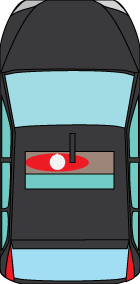
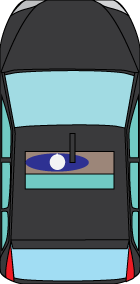
Added all new car textures

Changed region(s): [[0.1714, 0.5352, 0.6571, 0.6197]]

diff --git a/core/src/main/java/com/icyvenom/needforghetto/view/WorldRenderer.java b/core/src/main/java/com/icyvenom/needforghetto/view/WorldRenderer.java
@@ -144,7 +144,7 @@ public class WorldRenderer {
      */
     public void loadTextures(){
         playerTexture = new Texture(Gdx.files.internal("images/car.png"));
-        enemyPistolTexture = new Texture(Gdx.files.internal("images/enemyPistol.jpg"));
+        enemyPistolTexture = new Texture(Gdx.files.internal("images/enemyPistol.png"));
         enemyAWPTexture = new Texture(Gdx.files.internal("images/enemyAWP.png"));
         enemyStalkerTexture = new Texture(Gdx.files.internal("images/enemyStalker.png"));
         bulletTexture = new Texture(Gdx.files.internal("images/bullet.png"));
